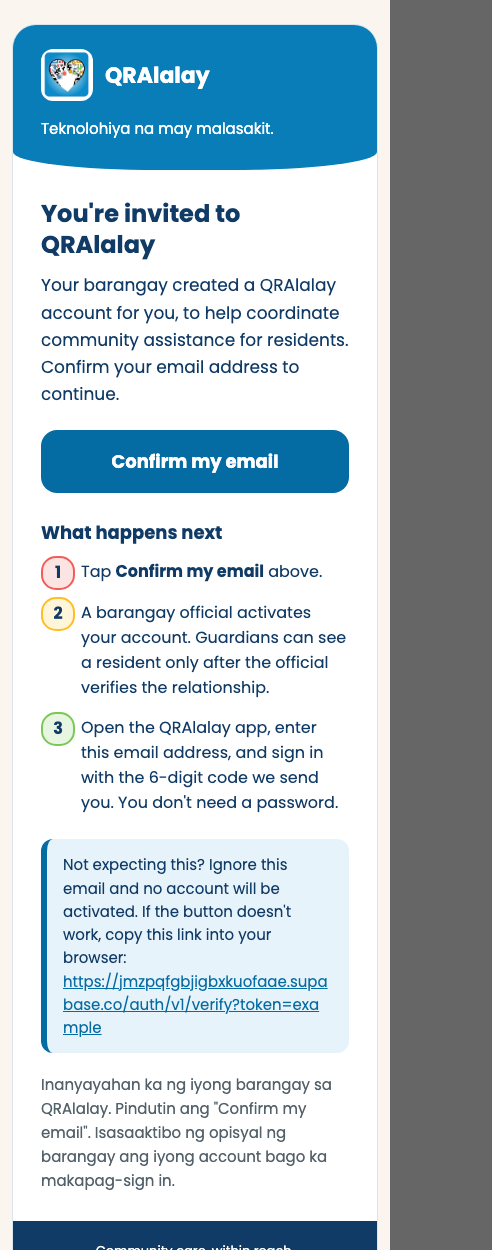
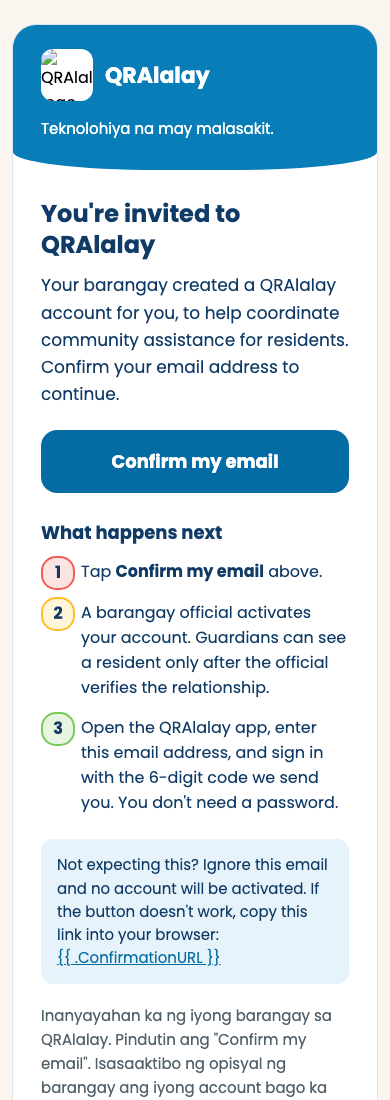
Remove side accent borders from website notices and email templates

diff --git a/docs/design/email-templates/invite.html b/docs/design/email-templates/invite.html
@@ -52,7 +52,7 @@
       </table>
 
       <table role="presentation" width="100%" cellpadding="0" cellspacing="0" style="margin-top:12px;">
-        <tr><td style="background:#E7F3FA;border-left:6px solid #056BA3;border-radius:12px;padding:14px 16px;font-size:15px;line-height:1.55;color:#103B66;">
+        <tr><td style="background:#E7F3FA;border-radius:12px;padding:14px 16px;font-size:15px;line-height:1.55;color:#103B66;">
           Not expecting this? Ignore this email and no account will be activated. If the button doesn't work, copy this link into your browser:<br>
           <a href="{{ .ConfirmationURL }}" style="color:#056BA3;word-break:break-all;">{{ .ConfirmationURL }}</a>
         </td></tr>

diff --git a/docs/design/email-templates/sign-in-code.html b/docs/design/email-templates/sign-in-code.html
@@ -43,7 +43,7 @@
       </p>
 
       <table role="presentation" width="100%" cellpadding="0" cellspacing="0" style="margin-top:20px;">
-        <tr><td style="background:#FFF5D9;border-left:6px solid #FFBE28;border-radius:12px;padding:14px 16px;font-size:15px;line-height:1.55;color:#103B66;">
+        <tr><td style="background:#FFF5D9;border-radius:12px;padding:14px 16px;font-size:15px;line-height:1.55;color:#103B66;">
           <strong style="color:#826000;">Keep this code private.</strong> Barangay staff will never ask for it. If you did not try to sign in, you can ignore this email; no one can sign in without the code.
         </td></tr>
       </table>

diff --git a/QRAlalay-Web/src/index.css b/QRAlalay-Web/src/index.css
@@ -137,7 +137,7 @@ main:focus { outline: none; }
 /* ---------- Notices (icon + words, never colour alone) ---------- */
 .notice {
   display: flex; gap: var(--space-3); align-items: flex-start;
-  padding: var(--space-4); border-radius: var(--radius-md); border-left: 6px solid;
+  padding: var(--space-4); border-radius: var(--radius-md); border: 0;
 }
 .notice__icon { margin-top: 2px; }
 .notice__body { display: flex; flex-direction: column; gap: var(--space-2); }
